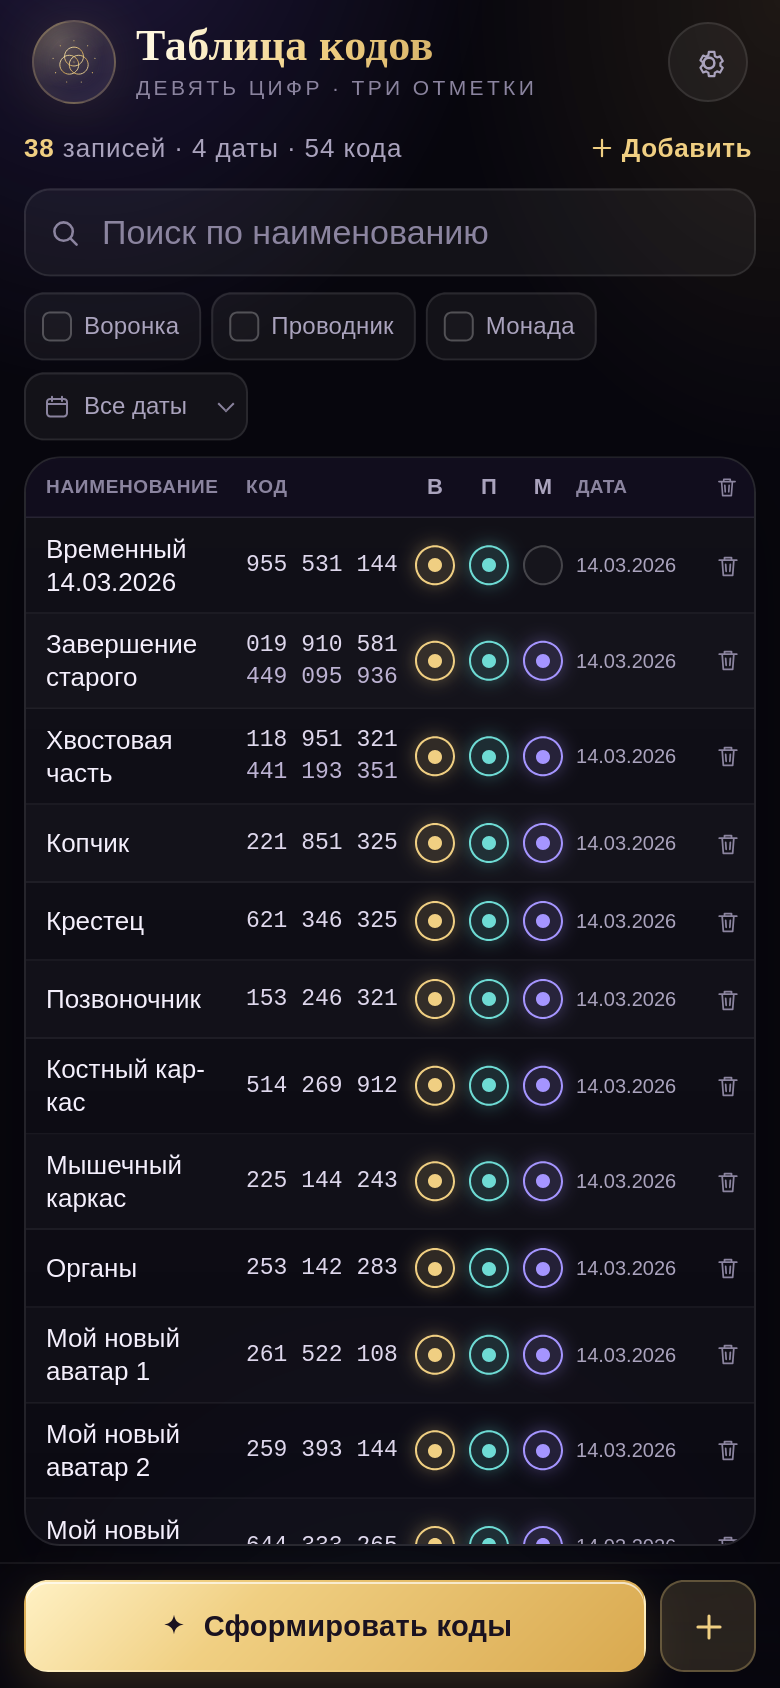
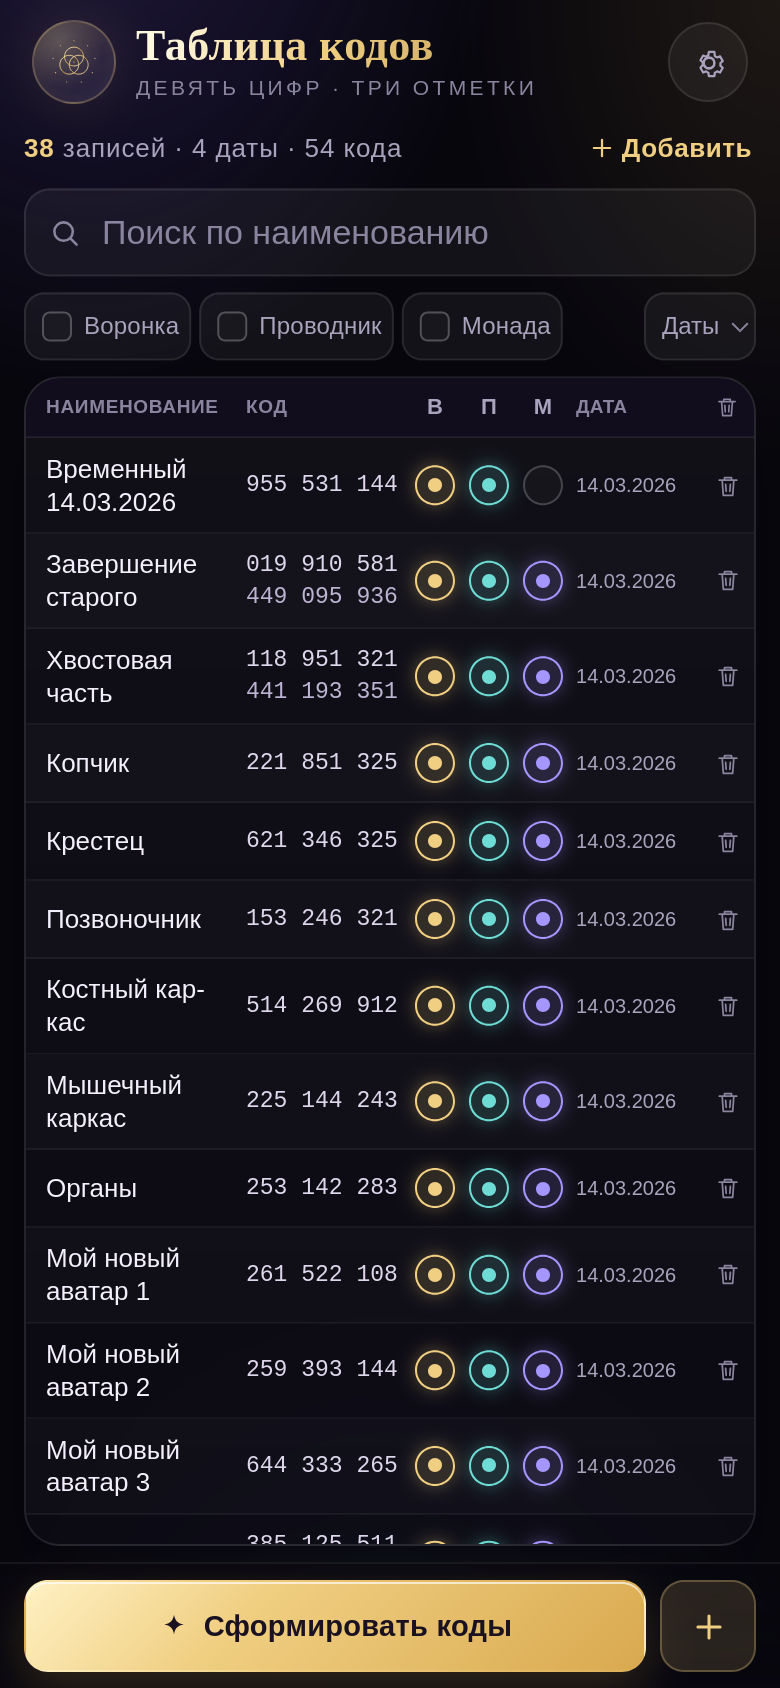
Фильтр дат «Даты» в одной строке с отметками

diff --git a/web/index.html b/web/index.html
@@ -73,7 +73,7 @@
           <label class="date-filter">
             <svg><use href="#i-calendar"></use></svg>
             <select id="dateFilter" aria-label="Фильтр по дате занятия">
-              <option value="">Все даты</option>
+              <option value="">Даты</option>
             </select>
           </label>
         </div>
@@ -171,7 +171,7 @@
               <img src="icons/mark.svg" alt="" width="40" height="40" />
               <div>
                 <h3>Таблица кодов</h3>
-                <p>Версия <span id="appVersion">1.1.0</span> · работает офлайн</p>
+                <p>Версия <span id="appVersion">1.1.1</span> · работает офлайн</p>
               </div>
             </div>
             <p class="hint">Все данные хранятся только на этом устройстве. Приложение не отправляет их в сеть.</p>

diff --git a/web/styles.css b/web/styles.css
@@ -1974,6 +1974,27 @@ svg {
 
 /* ---------- Адаптивность ---------- */
 
+/* Компактный фильтр дат: на телефоне помещается в одну строку с отметками. */
+@media (max-width: 559px) {
+  .filters { gap: 3px; }
+  .flag-filters { gap: 4px; }
+  .flag-chip { padding-right: 5px; }
+}
+
+@media (max-width: 419px) {
+  .date-filter {
+    gap: 0;
+    padding: 0 4px 0 6px;
+  }
+  .date-filter svg { display: none; }
+  .date-filter select {
+    width: 44px;
+    max-width: 44px;
+    padding: 0 9px 0 2px;
+  }
+  .date-filter::after { right: 4px; }
+}
+
 @media (min-width: 420px) {
   .bottombar-info {
     display: flex;

diff --git a/web/app.js b/web/app.js
@@ -254,7 +254,7 @@ function renderFlagFilters() {
 function renderDateFilter() {
   const dates = uniqueDates(state.data.rows);
   if (state.filters.date && !dates.includes(state.filters.date)) state.filters.date = '';
-  el.dateFilter.innerHTML = `<option value="">Все даты</option>${dates.map((date) => `
+  el.dateFilter.innerHTML = `<option value="">Даты</option>${dates.map((date) => `
     <option value="${date}">${formatDateRu(date)}</option>
   `).join('')}`;
   el.dateFilter.value = state.filters.date;

diff --git a/web/core.js b/web/core.js
@@ -2,7 +2,7 @@
 // Модуль используется и в браузере, и в Node-тестах.
 
 export const STORAGE_KEY = 'codeTable.v1';
-export const APP_VERSION = '1.1.0';
+export const APP_VERSION = '1.1.1';
 
 export const FLAGS = [
   { key: 'funnel', label: 'Воронка', short: 'В', hint: 'Показать записи без отметки «Воронка»' },

diff --git a/web/sw.js b/web/sw.js
@@ -1,5 +1,5 @@
 /* Офлайн-кэш приложения. Версию менять вместе с APP_VERSION. */
-const CACHE = 'code-table-v1.1.0';
+const CACHE = 'code-table-v1.1.1';
 const ASSETS = [
   './',
   './index.html',

diff --git a/README.md b/README.md
@@ -11,7 +11,7 @@
 - **Таблица без горизонтальной прокрутки** на телефоне: наименование переносится по словам, код показывается как `955 531 144`, два кода — двумя строками.
 - **Отметки** «Воронка», «Проводник», «Монада» переключаются прямо в строке.
 - **Дата занятия** в формате `ДД.ММ.ГГГГ`, с фильтром по датам.
-- **Поиск по наименованию** и комбинируемые фильтры: поиск + отметки + дата. Фильтры отметок работают в обратной логике: включённая «Воронка» показывает записи, где эта отметка не стоит.
+- **Поиск по наименованию** и комбинируемые фильтры: поиск + отметки + дата. Фильтры отметок работают в обратной логике: включённая «Воронка» показывает записи, где эта отметка не стоит. Фильтр дат подписан «Даты» и на телефоне остаётся в одной строке с отметками.
 - **Редактирование по нажатию** на строку, добавление и удаление записей.
 - **Формирование текста** только по отфильтрованным записям. Для каждого кода:
 
@@ -84,7 +84,7 @@ web/                  PWA: HTML, CSS, логика, данные, service worker
 android/              WebView-обёртка, ресурсы, нативный splash
 scripts/build-apk.sh  сборка APK без Gradle: aapt → javac → d8 → zipalign → apksigner
 tests/run-tests.mjs   27 модульных тестов чистой логики
-tests/ui-tests.mjs    55 интерфейсных проверок в Firefox/Playwright
+tests/ui-tests.mjs    59 интерфейсных проверок в Firefox/Playwright
 docs/                 скриншоты, отчёт, обложка
 dist/                 собранный APK
 ```
@@ -116,7 +116,7 @@ cp android/keystore.example.properties android/keystore.properties
 ANDROID_HOME=/path/to/android-sdk scripts/build-apk.sh
 ```
 
-Результат: `dist/tablica-kodov-v1.1.0.apk`. Скрипт копирует `web/` в assets, собирает ресурсы, dex, выравнивает и подписывает APK. При первом запуске создаётся `android/release.keystore`. Ключ подписи и `android/keystore.properties` не входят в репозиторий — храните их отдельно, иначе обновления APK получат другую подпись.
+Результат: `dist/tablica-kodov-v1.1.1.apk`. Скрипт копирует `web/` в assets, собирает ресурсы, dex, выравнивает и подписывает APK. При первом запуске создаётся `android/release.keystore`. Ключ подписи и `android/keystore.properties` не входят в репозиторий — храните их отдельно, иначе обновления APK получат другую подпись.
 
 Сборка через Gradle не обязательна. Ручной пайплайн выбран потому, что `aapt2` из SDK не запускается в ARM64-окружении, где готовился проект.
 

diff --git a/docs/test-report.md b/docs/test-report.md
@@ -1,8 +1,8 @@
 # Отчёт интерфейсных тестов
 
-Дата: 2026-11-14T18:55:54.115Z
+Дата: 2026-11-14T19:13:20.517Z
 
-Всего проверок: **55**, успешно: **55**, ошибок: **0**
+Всего проверок: **59**, успешно: **59**, ошибок: **0**
 
 - ✅ заголовок приложения
 - ✅ в таблице 38 записей из образца
@@ -12,9 +12,12 @@
 - ✅ заголовки отметок — первые буквы
 - ✅ в заголовке действия только корзина
 - ✅ фильтр дат содержит пять вариантов
+- ✅ фильтр дат подписан «Даты»
+- ✅ фильтр дат в одной строке с отметками
+- ✅ фильтр дат помещается по ширине
 - ✅ нет горизонтальной прокрутки страницы — 390/390
 - ✅ таблица помещается по ширине — overflow=1
-- ✅ нижняя панель видна целиком — table=545
+- ✅ нижняя панель видна целиком — table=585
 - ✅ длинное наименование переносится по словам — 81.9px
 - ✅ фильтр «Проводник» оставляет 20 записей без отметки
 - ✅ в отфильтрованных записях нет отметки «Проводник»
@@ -56,6 +59,7 @@
 - ✅ сброс к образцу возвращает 38 записей
 - ✅ на 360 px нет горизонтального переполнения — doc=0, table=1
 - ✅ кнопка формирования помещается
+- ✅ на 360 px фильтр дат остаётся в одной строке
 - ✅ заставка показана
 - ✅ заставка исчезает через 5 секунд
 - ✅ нет ошибок JavaScript
